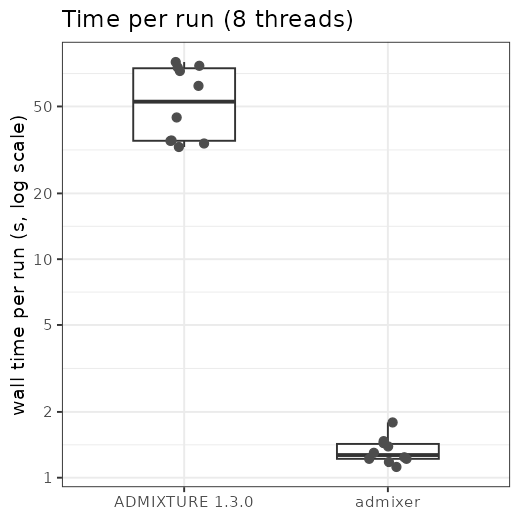
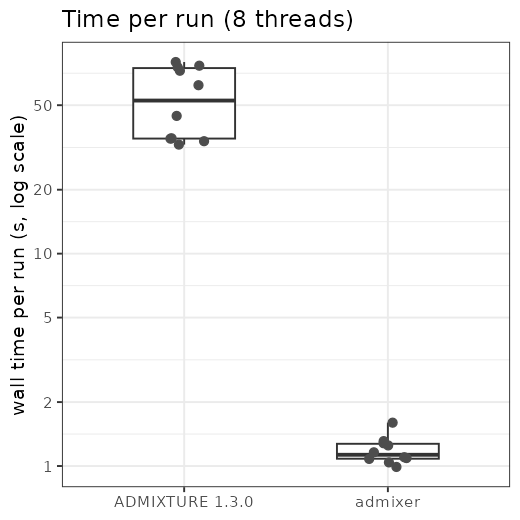
admixer 0.2.6: vectorised per-entry loops on AVX2 (-fno-trapping-math, AVX2 kernel clones)
GCC did not vectorise the main per-entry loop of row_pass (io.hpp) and parts of the GL loops
(beagle.hpp) on non-AVX-512 targets: it turns selects such as obs ? 2 - g : 0 into branches around
arithmetic that could trap. The Makefile now always adds -fno-trapping-math, and the portable build
also compiles the tile kernels for x86-64-v3 (AVX2).

Results are bit-identical (Q files byte-identical in 30 of 30 runs: sim100k K = 5-20, wildebeest,
GL data). On a Xeon E5-2699 v4 (AVX2), 8 threads: sim100k runs 15-30 % faster; at N = 50,000 or
M = 500,000 with 44 threads 18-30 % faster; the release build 1.7-2.1x faster.

diff --git a/src/kernel.hpp b/src/kernel.hpp
@@ -1,11 +1,12 @@
 // admixer: CPU dispatch for the per-entry tile kernels (io.hpp, beagle.hpp).
 #pragma once
 
-// The portable release build (make release) compiles the per-entry tile kernels twice, for AVX-512
-// (x86-64-v4) and for the baseline target, and picks one at program start (GCC function multiversioning);
-// these loops are where AVX-512 pays (about 2x). Other builds (-march=native) leave it empty.
+// The portable release build (make release) compiles the per-entry tile kernels three times, for AVX-512
+// (x86-64-v4), AVX2 (x86-64-v3) and the baseline target, and picks one at program start (GCC function
+// multiversioning); these loops are where wider vectors pay (AVX2 about 1.6x over the baseline's SSE, needs
+// -fno-trapping-math, see the Makefile). Other builds (-march=native) leave it empty.
 #if defined(ADMIXER_MULTIARCH) && defined(__x86_64__) && defined(__GNUC__) && !defined(__clang__)
-#define ADMIXER_KERNEL __attribute__((target_clones("arch=x86-64-v4", "default")))
+#define ADMIXER_KERNEL __attribute__((target_clones("arch=x86-64-v4", "arch=x86-64-v3", "default")))
 #else
 #define ADMIXER_KERNEL
 #endif

diff --git a/src/admixer.cpp b/src/admixer.cpp
@@ -26,7 +26,7 @@
 #include "model.hpp"
 #include "multistart.hpp"
 
-static const char* VERSION = "0.2.5";
+static const char* VERSION = "0.2.6";
 
 static void usage(int code) {
   std::printf(

diff --git a/README.md b/README.md
@@ -23,8 +23,8 @@ Details beyond everyday use (algorithms, performance, testing, differences from 
 ### Prebuilt binary (Linux x86_64)
 
 Nothing else needs to be installed: OpenBLAS, zlib and the C++/OpenMP runtimes are built in. It runs on any
-x86_64 Linux with glibc 2.28 or newer (RHEL/Rocky/Alma 8+, Ubuntu 20.04+, Debian 10+), and uses AVX-512
-when the CPU has it.
+x86_64 Linux with glibc 2.28 or newer (RHEL/Rocky/Alma 8+, Ubuntu 20.04+, Debian 10+), and uses AVX2 or
+AVX-512 when the CPU has it.
 
 ```
 wget https://github.com/aalbrechtsen/admixer/releases/latest/download/admixer-linux-x86_64.tar.gz
@@ -140,8 +140,8 @@ Details: [DETAILS.md](DETAILS.md) (algorithms, performance, testing, and the dif
 
 ## Example: blue wildebeest (PLINK), K = 7
 
-The times in both examples were measured with admixer 0.2.4 on one server (2 × Xeon E5-2699 v4, 44 cores,
-AVX2). The ADMIXTURE and NGSadmix runs used for the comparisons, from this server and an earlier one, are
+The times in both examples were measured with admixer 0.2.6 on one server (2 × Xeon E5-2699 v4, 44 cores,
+AVX2); the GL benchmark table with 0.2.4, which gives the same times as 0.2.6 there. The ADMIXTURE and NGSadmix runs used for the comparisons, from this server and an earlier one, are
 listed in [`bench/reference_runs/`](bench/reference_runs/).
 
 This example follows the popgenDK exercise
@@ -171,7 +171,7 @@ admixer --seed 1 -j10 -o blue_wildebeest_noLD_admixer blue_wildebeest_noLD.bed 7
 <summary>Full screen output = log file <code>blue_wildebeest_noLD_admixer.7.log</code> (click to expand)</summary>
 
 ```
-admixer 0.2.4
+admixer 0.2.6
 Command: admixer --seed 1 -j10 -o blue_wildebeest_noLD_admixer blue_wildebeest_noLD.bed 7
 Random seed: 1
 Point estimation method: Block relaxation algorithm (Newton/QP steps, BLAS kernels)
@@ -181,64 +181,64 @@ Point estimation will terminate when objective function delta < 0.0001
 Size of G: 73x37567
 Threads: 10
 Performing 5 EM steps to prime main algorithm
-1 (EM) 	Elapsed: 0.019	Loglikelihood: -3905731.572719	(delta): inf
-2 (EM) 	Elapsed: 0.033	Loglikelihood: -3589909.043398	(delta): 315823
-3 (EM) 	Elapsed: 0.046	Loglikelihood: -3575200.604387	(delta): 14708.4
-4 (EM) 	Elapsed: 0.059	Loglikelihood: -3574247.667174	(delta): 952.937
-5 (EM) 	Elapsed: 0.066	Loglikelihood: -3574138.765123	(delta): 108.902
+1 (EM) 	Elapsed: 0.018	Loglikelihood: -3905731.572719	(delta): inf
+2 (EM) 	Elapsed: 0.031	Loglikelihood: -3589909.043398	(delta): 315823
+3 (EM) 	Elapsed: 0.043	Loglikelihood: -3575200.604387	(delta): 14708.4
+4 (EM) 	Elapsed: 0.055	Loglikelihood: -3574247.667174	(delta): 952.937
+5 (EM) 	Elapsed: 0.061	Loglikelihood: -3574138.765123	(delta): 108.902
 Initial loglikelihood: -3574096.334450
-1 (mini-batch, 32 batches) 	Elapsed: 0.089	Loglikelihood: -3305128.521999	(delta): 268968
-2 (mini-batch, 32 batches) 	Elapsed: 0.108	Loglikelihood: -3093758.676591	(delta): 211370
-3 (mini-batch, 32 batches) 	Elapsed: 0.126	Loglikelihood: -3020493.145226	(delta): 73265.5
-4 (mini-batch, 32 batches) 	Elapsed: 0.145	Loglikelihood: -3005025.468828	(delta): 15467.7
-5 (mini-batch, 32 batches) 	Elapsed: 0.163	Loglikelihood: -2983492.604518	(delta): 21532.9
-6 (mini-batch, 32 batches) 	Elapsed: 0.181	Loglikelihood: -2970637.518166	(delta): 12855.1
-7 (mini-batch, 32 batches) 	Elapsed: 0.200	Loglikelihood: -2963043.082651	(delta): 7594.44
-8 (mini-batch, 32 batches) 	Elapsed: 0.218	Loglikelihood: -2955627.401695	(delta): 7415.68
-9 (mini-batch, 32 batches) 	Elapsed: 0.236	Loglikelihood: -2949074.319894	(delta): 6553.08
-10 (mini-batch, 32 batches) 	Elapsed: 0.254	Loglikelihood: -2945153.291869	(delta): 3921.03
-11 (mini-batch, 32 batches) 	Elapsed: 0.272	Loglikelihood: -2941630.583144	(delta): 3522.71
-12 (mini-batch, 32 batches) 	Elapsed: 0.291	Loglikelihood: -2940097.110484	(delta): 1533.47
-13 (mini-batch, 32 batches) 	Elapsed: 0.309	Loglikelihood: -2937886.236819	(delta): 2210.87
-14 (mini-batch, 32 batches) 	Elapsed: 0.327	Loglikelihood: -2936857.473163	(delta): 1028.76
-15 (mini-batch, 32 batches) 	Elapsed: 0.345	Loglikelihood: -2936705.528618	(delta): 151.945
-16 (mini-batch, 32 batches) 	Elapsed: 0.364	Loglikelihood: -2936839.315742	(delta): -133.787
-17 (mini-batch, 16 batches) 	Elapsed: 0.381	Loglikelihood: -2934505.434620	(delta): 2333.88
-18 (mini-batch, 16 batches) 	Elapsed: 0.399	Loglikelihood: -2934593.456450	(delta): -88.0218
-19 (mini-batch, 8 batches) 	Elapsed: 0.415	Loglikelihood: -2933738.627437	(delta): 854.829
-20 (mini-batch, 8 batches) 	Elapsed: 0.432	Loglikelihood: -2933552.673171	(delta): 185.954
-21 (mini-batch, 8 batches) 	Elapsed: 0.448	Loglikelihood: -2933570.207690	(delta): -17.5345
-22 (mini-batch, 4 batches) 	Elapsed: 0.463	Loglikelihood: -2933229.690093	(delta): 340.518
-23 (mini-batch, 4 batches) 	Elapsed: 0.479	Loglikelihood: -2933135.647354	(delta): 94.0427
-24 (mini-batch, 4 batches) 	Elapsed: 0.495	Loglikelihood: -2933145.977744	(delta): -10.3304
-25 (mini-batch, 2 batches) 	Elapsed: 0.510	Loglikelihood: -2933015.506707	(delta): 130.471
-26 (mini-batch, 2 batches) 	Elapsed: 0.525	Loglikelihood: -2933009.051346	(delta): 6.45536
-27 (mini-batch, 2 batches) 	Elapsed: 0.540	Loglikelihood: -2933005.262884	(delta): 3.78846
-28 (mini-batch, 2 batches) 	Elapsed: 0.556	Loglikelihood: -2933001.307338	(delta): 3.95555
-29 (mini-batch, 2 batches) 	Elapsed: 0.571	Loglikelihood: -2933000.262047	(delta): 1.04529
-30 (mini-batch, 2 batches) 	Elapsed: 0.586	Loglikelihood: -2932999.566725	(delta): 0.695322
-31 (mini-batch, 2 batches) 	Elapsed: 0.601	Loglikelihood: -2932999.375594	(delta): 0.191131
-32 (mini-batch, 2 batches) 	Elapsed: 0.616	Loglikelihood: -2932998.737526	(delta): 0.638068
-33 (mini-batch, 2 batches) 	Elapsed: 0.631	Loglikelihood: -2932998.786367	(delta): -0.0488406
+1 (mini-batch, 32 batches) 	Elapsed: 0.082	Loglikelihood: -3305128.521999	(delta): 268968
+2 (mini-batch, 32 batches) 	Elapsed: 0.099	Loglikelihood: -3093758.676591	(delta): 211370
+3 (mini-batch, 32 batches) 	Elapsed: 0.116	Loglikelihood: -3020493.145226	(delta): 73265.5
+4 (mini-batch, 32 batches) 	Elapsed: 0.133	Loglikelihood: -3005025.468828	(delta): 15467.7
+5 (mini-batch, 32 batches) 	Elapsed: 0.149	Loglikelihood: -2983492.604518	(delta): 21532.9
+6 (mini-batch, 32 batches) 	Elapsed: 0.166	Loglikelihood: -2970637.518166	(delta): 12855.1
+7 (mini-batch, 32 batches) 	Elapsed: 0.183	Loglikelihood: -2963043.082651	(delta): 7594.44
+8 (mini-batch, 32 batches) 	Elapsed: 0.199	Loglikelihood: -2955627.401695	(delta): 7415.68
+9 (mini-batch, 32 batches) 	Elapsed: 0.216	Loglikelihood: -2949074.319894	(delta): 6553.08
+10 (mini-batch, 32 batches) 	Elapsed: 0.232	Loglikelihood: -2945153.291869	(delta): 3921.03
+11 (mini-batch, 32 batches) 	Elapsed: 0.249	Loglikelihood: -2941630.583144	(delta): 3522.71
+12 (mini-batch, 32 batches) 	Elapsed: 0.265	Loglikelihood: -2940097.110484	(delta): 1533.47
+13 (mini-batch, 32 batches) 	Elapsed: 0.282	Loglikelihood: -2937886.236819	(delta): 2210.87
+14 (mini-batch, 32 batches) 	Elapsed: 0.299	Loglikelihood: -2936857.473163	(delta): 1028.76
+15 (mini-batch, 32 batches) 	Elapsed: 0.315	Loglikelihood: -2936705.528618	(delta): 151.945
+16 (mini-batch, 32 batches) 	Elapsed: 0.332	Loglikelihood: -2936839.315742	(delta): -133.787
+17 (mini-batch, 16 batches) 	Elapsed: 0.347	Loglikelihood: -2934505.434620	(delta): 2333.88
+18 (mini-batch, 16 batches) 	Elapsed: 0.362	Loglikelihood: -2934593.456450	(delta): -88.0218
+19 (mini-batch, 8 batches) 	Elapsed: 0.376	Loglikelihood: -2933738.627437	(delta): 854.829
+20 (mini-batch, 8 batches) 	Elapsed: 0.390	Loglikelihood: -2933552.673171	(delta): 185.954
+21 (mini-batch, 8 batches) 	Elapsed: 0.404	Loglikelihood: -2933570.207690	(delta): -17.5345
+22 (mini-batch, 4 batches) 	Elapsed: 0.418	Loglikelihood: -2933229.690093	(delta): 340.518
+23 (mini-batch, 4 batches) 	Elapsed: 0.431	Loglikelihood: -2933135.647354	(delta): 94.0427
+24 (mini-batch, 4 batches) 	Elapsed: 0.444	Loglikelihood: -2933145.977744	(delta): -10.3304
+25 (mini-batch, 2 batches) 	Elapsed: 0.457	Loglikelihood: -2933015.506707	(delta): 130.471
+26 (mini-batch, 2 batches) 	Elapsed: 0.470	Loglikelihood: -2933009.051346	(delta): 6.45536
+27 (mini-batch, 2 batches) 	Elapsed: 0.483	Loglikelihood: -2933005.262884	(delta): 3.78846
+28 (mini-batch, 2 batches) 	Elapsed: 0.496	Loglikelihood: -2933001.307338	(delta): 3.95555
+29 (mini-batch, 2 batches) 	Elapsed: 0.509	Loglikelihood: -2933000.262047	(delta): 1.04529
+30 (mini-batch, 2 batches) 	Elapsed: 0.522	Loglikelihood: -2932999.566725	(delta): 0.695322
+31 (mini-batch, 2 batches) 	Elapsed: 0.534	Loglikelihood: -2932999.375594	(delta): 0.191131
+32 (mini-batch, 2 batches) 	Elapsed: 0.547	Loglikelihood: -2932998.737526	(delta): 0.638068
+33 (mini-batch, 2 batches) 	Elapsed: 0.560	Loglikelihood: -2932998.786367	(delta): -0.0488406
 Starting main algorithm
-1 (QN/Block) 	Elapsed: 0.674	Loglikelihood: -2932965.459753	(delta): inf
-2 (QN/Block) 	Elapsed: 0.703	Loglikelihood: -2932963.623793	(delta): 1.83596
-3 (QN/Block) 	Elapsed: 0.734	Loglikelihood: -2932963.275774	(delta): 0.348019
-4 (QN/Block) 	Elapsed: 0.776	Loglikelihood: -2932963.129045	(delta): 0.146729
-5 (QN/Block) 	Elapsed: 0.804	Loglikelihood: -2932963.106727	(delta): 0.0223178
-6 (QN/Block) 	Elapsed: 0.832	Loglikelihood: -2932963.079817	(delta): 0.0269099
-7 (QN/Block) 	Elapsed: 0.860	Loglikelihood: -2932963.073994	(delta): 0.005823
-8 (QN/Block) 	Elapsed: 0.888	Loglikelihood: -2932963.071934	(delta): 0.00205984
-9 (QN/Block) 	Elapsed: 0.916	Loglikelihood: -2932963.070470	(delta): 0.00146464
-10 (QN/Block) 	Elapsed: 0.944	Loglikelihood: -2932963.069341	(delta): 0.00112899
-11 (QN/Block) 	Elapsed: 0.972	Loglikelihood: -2932963.069302	(delta): 3.8431e-05
+1 (QN/Block) 	Elapsed: 0.597	Loglikelihood: -2932965.459753	(delta): inf
+2 (QN/Block) 	Elapsed: 0.623	Loglikelihood: -2932963.623793	(delta): 1.83596
+3 (QN/Block) 	Elapsed: 0.650	Loglikelihood: -2932963.275774	(delta): 0.348019
+4 (QN/Block) 	Elapsed: 0.686	Loglikelihood: -2932963.129045	(delta): 0.146729
+5 (QN/Block) 	Elapsed: 0.710	Loglikelihood: -2932963.106727	(delta): 0.0223178
+6 (QN/Block) 	Elapsed: 0.734	Loglikelihood: -2932963.079817	(delta): 0.0269099
+7 (QN/Block) 	Elapsed: 0.758	Loglikelihood: -2932963.073994	(delta): 0.005823
+8 (QN/Block) 	Elapsed: 0.782	Loglikelihood: -2932963.071934	(delta): 0.00205984
+9 (QN/Block) 	Elapsed: 0.806	Loglikelihood: -2932963.070470	(delta): 0.00146464
+10 (QN/Block) 	Elapsed: 0.830	Loglikelihood: -2932963.069341	(delta): 0.00112899
+11 (QN/Block) 	Elapsed: 0.854	Loglikelihood: -2932963.069302	(delta): 3.8431e-05
 Quasi-Newton: 1 of 11 extrapolations rejected, 0 accepted after damping
 Summary: 
-Converged in 11 iterations (1.036 sec)
+Converged in 11 iterations (0.919 sec)
 Loglikelihood: -2932963.069302
 Optimality check (max projected gradient): P 7.78e-05, Q 2.34e-08
 Writing output files.
-evalAdmix correlation of residuals written to blue_wildebeest_noLD_admixer.7.corres.txt (0.14 sec)
+evalAdmix correlation of residuals written to blue_wildebeest_noLD_admixer.7.corres.txt (0.10 sec)
 Log written to blue_wildebeest_noLD_admixer.7.log
 ```
 
@@ -274,7 +274,7 @@ between them and B-Ethosha.
 admixer --seed 0 -j10 -o blue_wildebeest_noLD_admixerMult blue_wildebeest_noLD.bed 7 --conv 3
 ```
 
-This tries seeds 0, 1, 2, ... until three runs agree with the best run, in 8 seconds.
+This tries seeds 0, 1, 2, ... until three runs agree with the best run, in 7 seconds.
 `blue_wildebeest_noLD_admixerMult.7.conv` lists the runs, best first:
 
 ```
@@ -305,7 +305,7 @@ The plots were made with evalAdmix's [`visFuns.R`](https://github.com/GenisGE/ev
 ### Comparison with ADMIXTURE
 
 Ten runs of each program on the same data (seeds 1–10, K = 7, 8 threads, one run at a time). The
-log-likelihoods in the left plot are from admixer 0.1.0; the times are from admixer 0.2.4 and ADMIXTURE 1.3.0,
+log-likelihoods in the left plot are from admixer 0.1.0; the times are from admixer 0.2.6 and ADMIXTURE 1.3.0,
 measured on the same server:
 
 ```
@@ -327,9 +327,9 @@ The best runs agree:
 
 ADMIXTURE's runs are a little lower because its stopping rule ends them slightly before the optimum.
 
-The median time per run was 1.3 s for admixer 0.2.4 and 53 s for ADMIXTURE, 42× faster (admixer 0.1.0 took
-3.2 s, 0.2.1 2.2 s, 0.2.2 1.7 s). admixer 0.2.4 also reaches the best likelihood in 5 of the 10 runs.
-So `--conv 3` with admixer (8 s above) takes much less time than a single ADMIXTURE run.
+The median time per run was 1.1 s for admixer 0.2.6 and 53 s for ADMIXTURE, 47× faster (admixer 0.1.0 took
+3.2 s, 0.2.1 2.2 s, 0.2.2 1.7 s, 0.2.4 1.3 s). admixer 0.2.6 also reaches the best likelihood in 5 of the 10
+runs. So `--conv 3` with admixer (7 s above) takes much less time than a single ADMIXTURE run.
 
 ## Example: genotype likelihoods, NGSadmix tutorial data, K = 3
 
@@ -351,7 +351,7 @@ Loglikelihood: -3865964.313411
 Loglikelihood over all GL entries, missing ones included (as NGSadmix): -3865964.313411
 Optimality check (max projected gradient): P 1.86e-05, Q 1.19e-11
 Writing output files.
-evalAdmix correlation of residuals written to input.3.corres.txt (0.27 sec)
+evalAdmix correlation of residuals written to input.3.corres.txt (0.24 sec)
 Log written to input.3.log
 ```
 

diff --git a/DETAILS.md b/DETAILS.md
@@ -112,7 +112,11 @@ H = P Qᵀ (BLAS), the per-entry likelihood terms, and the Hessians and gradient
 * The matrix products are a small part of the time; the per-entry step dominates. It is written without
   branches on the genotype (they were mispredicted about every other entry), so the compiler vectorises it.
   It uses one division per entry and tracks the exponent of the likelihood product exactly instead of taking
-  logs.
+  logs. GCC vectorises it only with `-fno-trapping-math` (always added by the Makefile): otherwise it turns
+  selects such as `obs ? 2 - g : 0` into branches around the arithmetic, and without AVX-512's masked
+  instructions the loop then stays scalar. Up to version 0.2.5 that happened on AVX2 CPUs: the flag made runs
+  15–30 % faster there for K = 5–20 (M = 100,000, N = 2,000, 8 threads) with bit-identical results, and the
+  per-entry step 1.6–2.1× faster. AVX-512 code was vectorised already (with masked instructions).
 * The small Newton/QP problems per row of P and Q use a Cholesky-based active-set solver; rows of P (box
   constraints only) first try a primal-dual active-set method, which moves many bounds per iteration.
 * **Small K (2–7):** OpenBLAS's matrix products are inefficient when the inner dimension is only K (or
@@ -143,10 +147,13 @@ manylinux_2_28 container (glibc 2.28, GCC 14). OpenBLAS (with `DYNAMIC_ARCH`, so
 the CPU at run time) and zlib are built from source once into `.build/` and linked statically, as are
 libstdc++, libgcc and libgomp; the script fails if the binary needs any shared library besides glibc.
 The code is compiled for x86-64-v2, and the per-entry tile kernels (`tile_ll`, `tile_em`, `tile_wd` in
-`io.hpp` and `beagle.hpp`) also for AVX-512 (`ADMIXER_KERNEL` in `kernel.hpp`, GCC `target_clones`); the
+`io.hpp` and `beagle.hpp`) also for AVX2 and AVX-512 (`ADMIXER_KERNEL` in `kernel.hpp`, GCC `target_clones`); the
 version is chosen when the program starts. Without the AVX-512 kernels the binary was about 2× slower on
 an AVX-512 CPU; with them it is as fast as a `-march=native` build (20,000 SNPs, 2,000 individuals, 16
-threads, Xeon Gold 6152: K = 5 2.7 s vs 2.7 s, K = 10 196 s vs 203 s, same log-likelihoods). To release:
+threads, Xeon Gold 6152: K = 5 2.7 s vs 2.7 s, K = 10 196 s vs 203 s, same log-likelihoods). On an AVX2 CPU
+(Xeon E5-2699 v4, M = 100,000, N = 2,000, 8 threads) the AVX2 kernels and `-fno-trapping-math` (0.2.6) made it
+1.7–2.1× faster than the 0.2.5 build, as fast as a `-march=native` build (K = 5 20.0 s vs 20.8 s, K = 10
+31.9 s vs 32.3 s). To release:
 run the script, run `tests/run_tests.sh --bin admixer`, and attach the tarball to a GitHub release.
 
 ## Testing

diff --git a/bench/reference_runs/README.md b/bench/reference_runs/README.md
@@ -7,7 +7,7 @@ Timings of the comparison programs, kept so that they do not have to be rerun. E
 | `admixture_1.3.0.tsv` | ADMIXTURE 1.3.0 (`admixture -jT -s SEED data.bed K`), all runs measured so far |
 | `admixture_per_iteration.tsv` | time of one EM step and one quasi-Newton iteration by number of threads, ADMIXTURE vs admixer |
 | `ngsadmix32.tsv` | NGSadmix 32 (`NGSadmix -likes input.gz -K K -P 8 -seed SEED`) on the NGSadmix tutorial GLs, 25 seeds per K = 3-6 |
-| `admixer_readme_runs.tsv` | admixer 0.2.1 (`30f49d6`) and 0.2.2 on the README examples, same server and conditions |
+| `admixer_readme_runs.tsv` | admixer 0.2.1 (`30f49d6`) to 0.2.6 on the README examples, same server and conditions |
 | `logs_e5-2699v4.tar.gz` | the raw logs of the e5-2699v4 runs |
 
 Columns: `server`, `data`, `M` (SNPs), `N` (individuals), `K`, `threads`, `seed`, `wall_s`, `cpu_s` (empty when not
